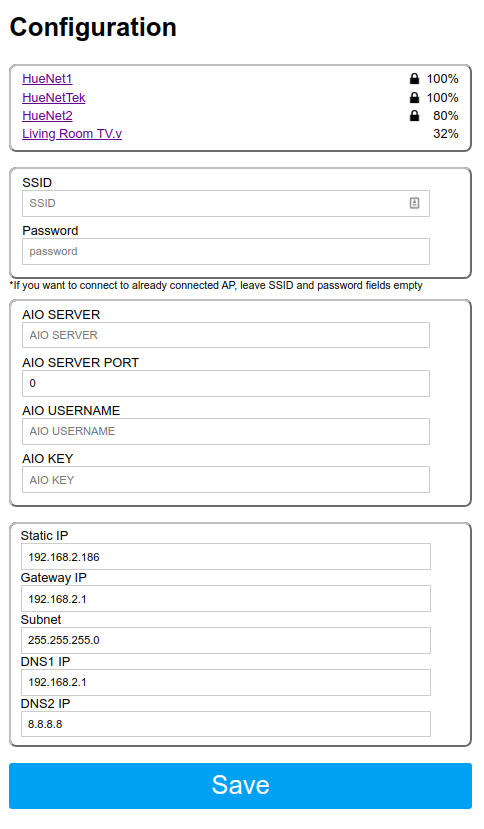
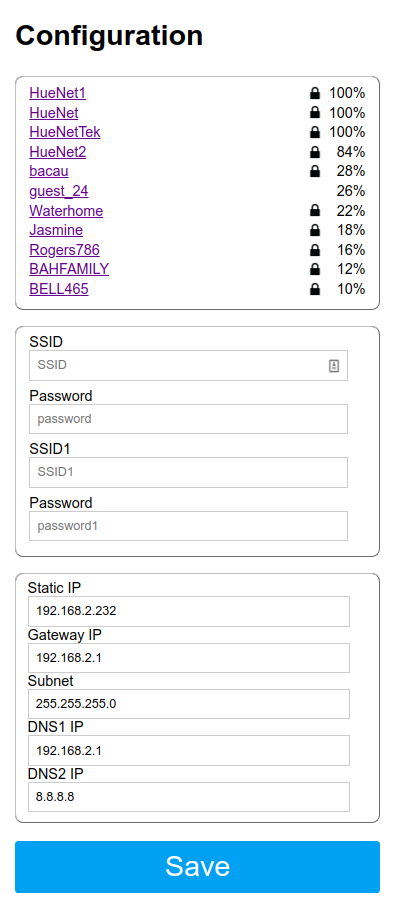
Major Releases v1.1.0
### Major Releases v1.1.0

1. Add **MultiWiFi feature to auto(Re)connect to the best WiFi at runtime**
2. Fix bug.
3. Completely enhanced examples to use new MultiWiFi feature.

Changed region(s): [[0.0, 0.0, 0.995, 0.9952], [0.9648, 0.2111, 0.995, 0.3317]]

diff --git a/README.md b/README.md
@@ -782,6 +782,10 @@ Select `Configuration` to enter this page where you can select an AP and specify
 
 Enter your credentials, then click ***Save***. The WiFi Credentials will be saved and the board reboots to connect to the selected WiFi AP.
 
+<p align="center">
+    <img src="https://github.com/khoih-prog/ESP_WiFiManager/blob/master/Images/Saved.png">
+</p>
+
 If you're already connected to a listed WiFi AP and don't want to change anything, just select ***Exit Portal*** from the `Main` page to reboot the board and connect to the previously-stored AP. The WiFi Credentials are still intact.
 
 ---
@@ -856,9 +860,9 @@ void loop()
     //ESP_wifiManager.setAPStaticIPConfig(IPAddress(192, 168, 100, 1), IPAddress(192, 168, 100, 1), IPAddress(255, 255, 255, 0));
 
 #if !USE_DHCP_IP    
-  #if USE_CONFIGURABLE_DNS  
+  #if USE_CONFIGURABLE_DNS
     // Set static IP, Gateway, Subnetmask, DNS1 and DNS2. New in v1.0.5
-    ESP_wifiManager.setSTAStaticIPConfig(stationIP, gatewayIP, netMask, dns1IP, dns2IP);  
+    ESP_wifiManager.setSTAStaticIPConfig(stationIP, gatewayIP, netMask, dns1IP, dns2IP);
   #else
     // Set static IP, Gateway, Subnetmask, Use auto DNS1 and DNS2.
     ESP_wifiManager.setSTAStaticIPConfig(stationIP, gatewayIP, netMask);
